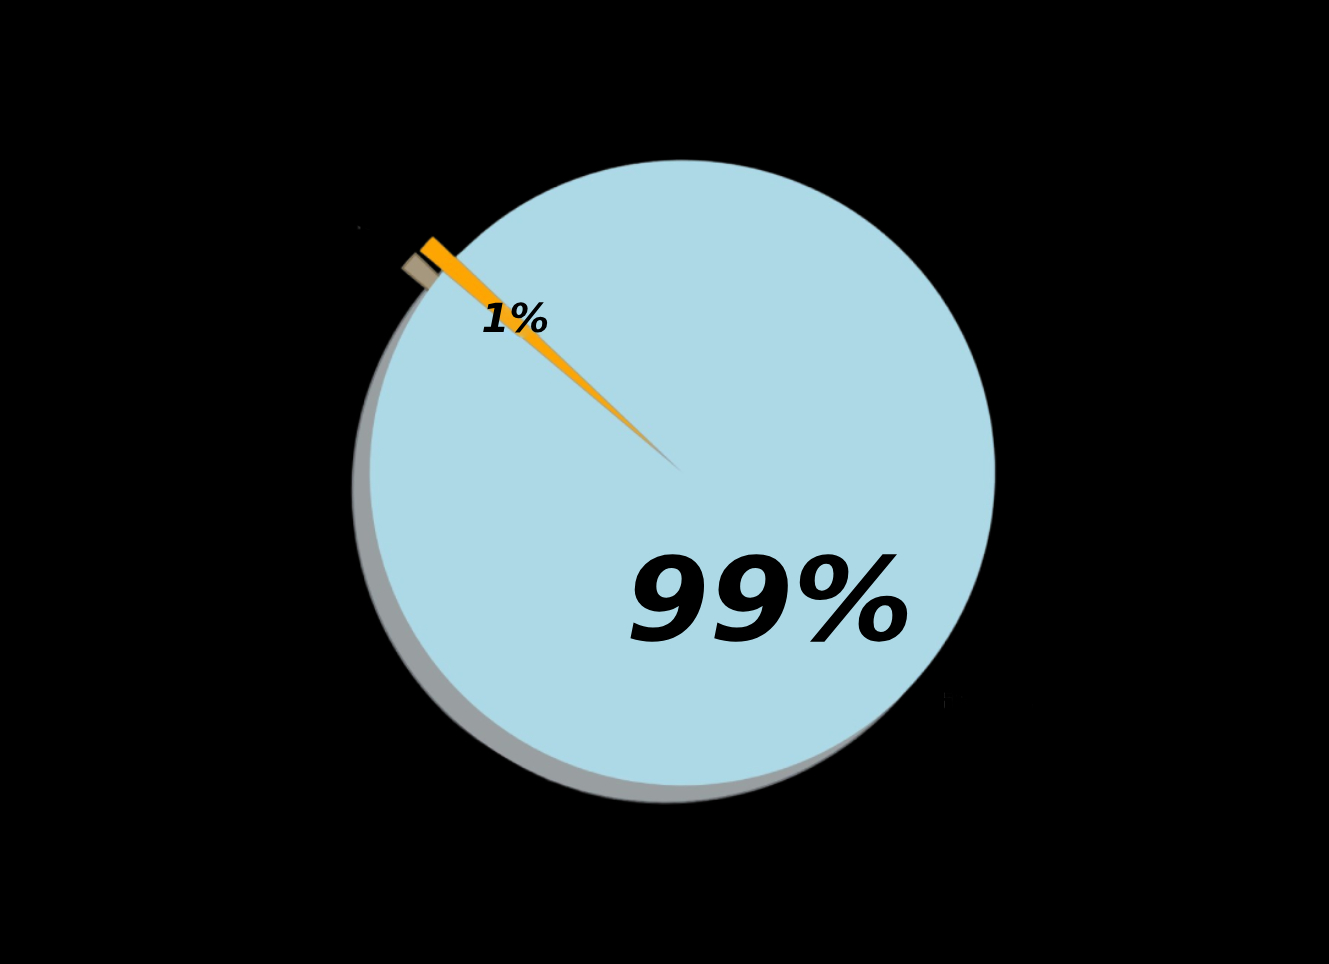
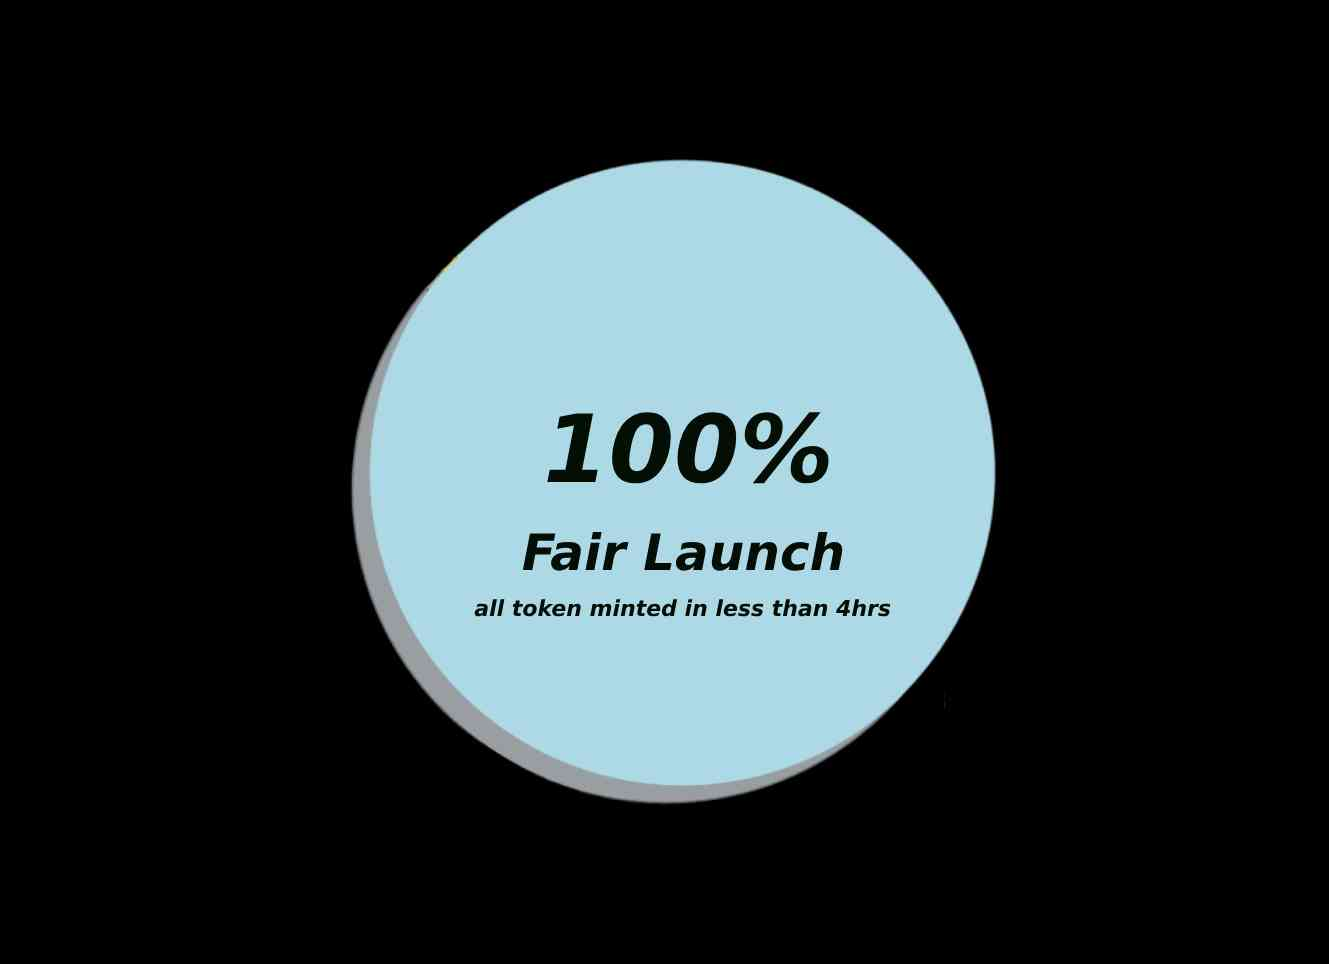
update

Changed region(s): [[0.3394, 0.529, 0.6787, 0.6846], [0.3085, 0.249, 0.6479, 0.4979]]

diff --git a/index.html b/index.html
@@ -6399,7 +6399,7 @@
                                                     style="color:#fcfcfb;font-family:YACgEcnJpjs-0;line-height:1.3775137em;text-align:center; margin-top: 20px;">
                                                     <span id="Hcb2szxY40FlWBuZ" style="color:#fcfcfb;">$POPKAT is a 100%
                                                         fair launch KRC20. All tokes were minted out in less than 4
-                                                        hours. (Pie chart should show 100% Fair Launched)</span>
+                                                        hours.</span>
                                                 </p>
                                             </div>
                                         </div>
